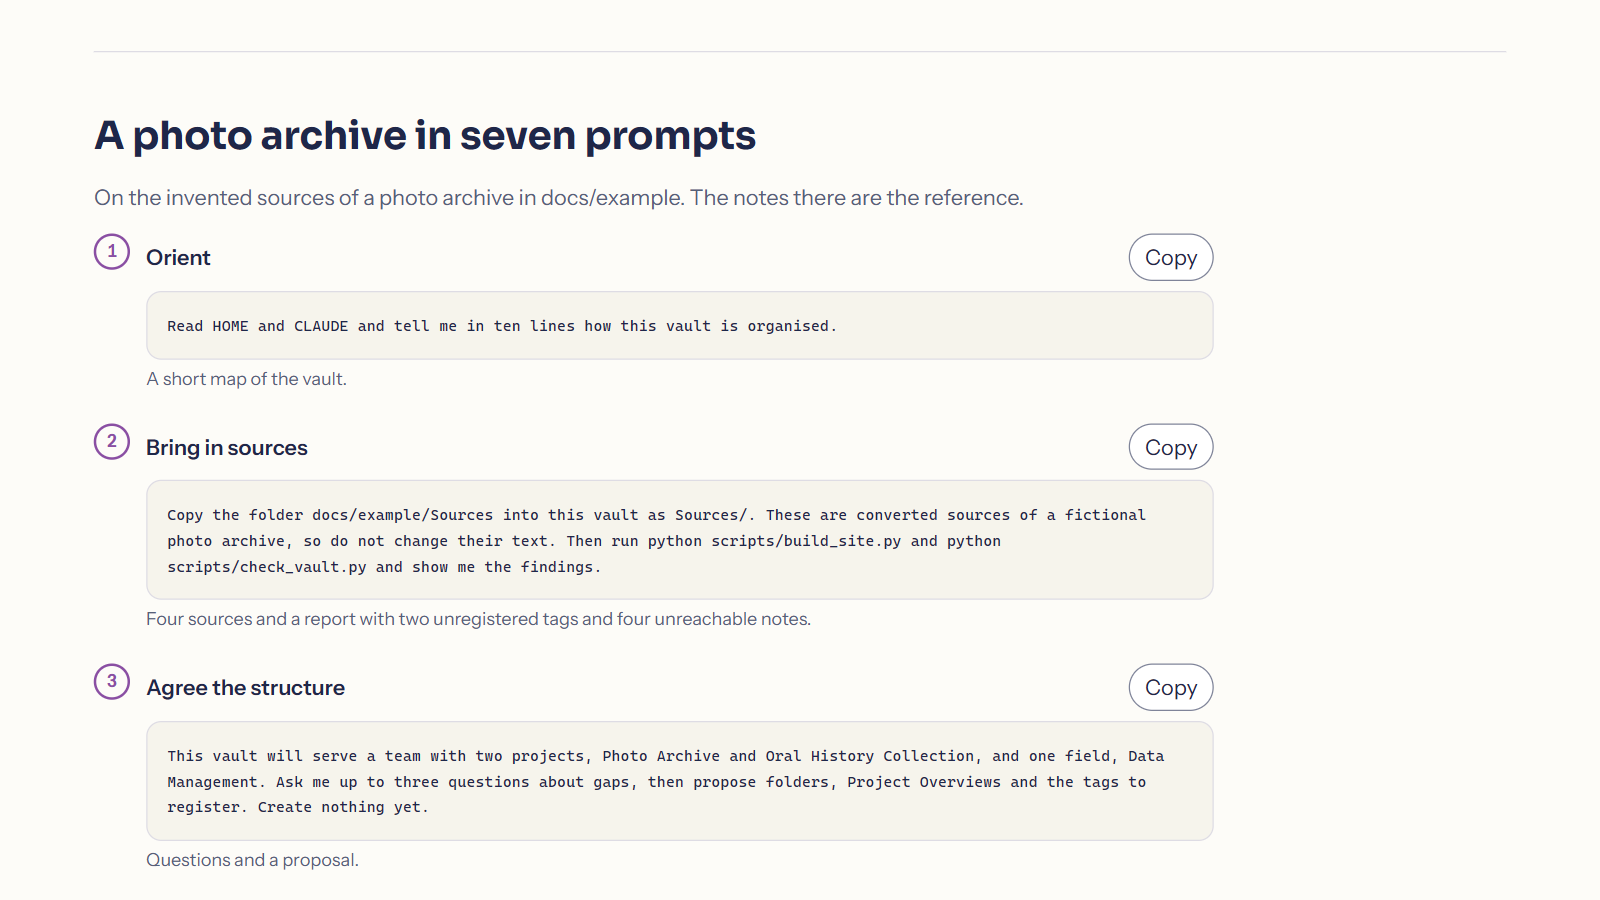
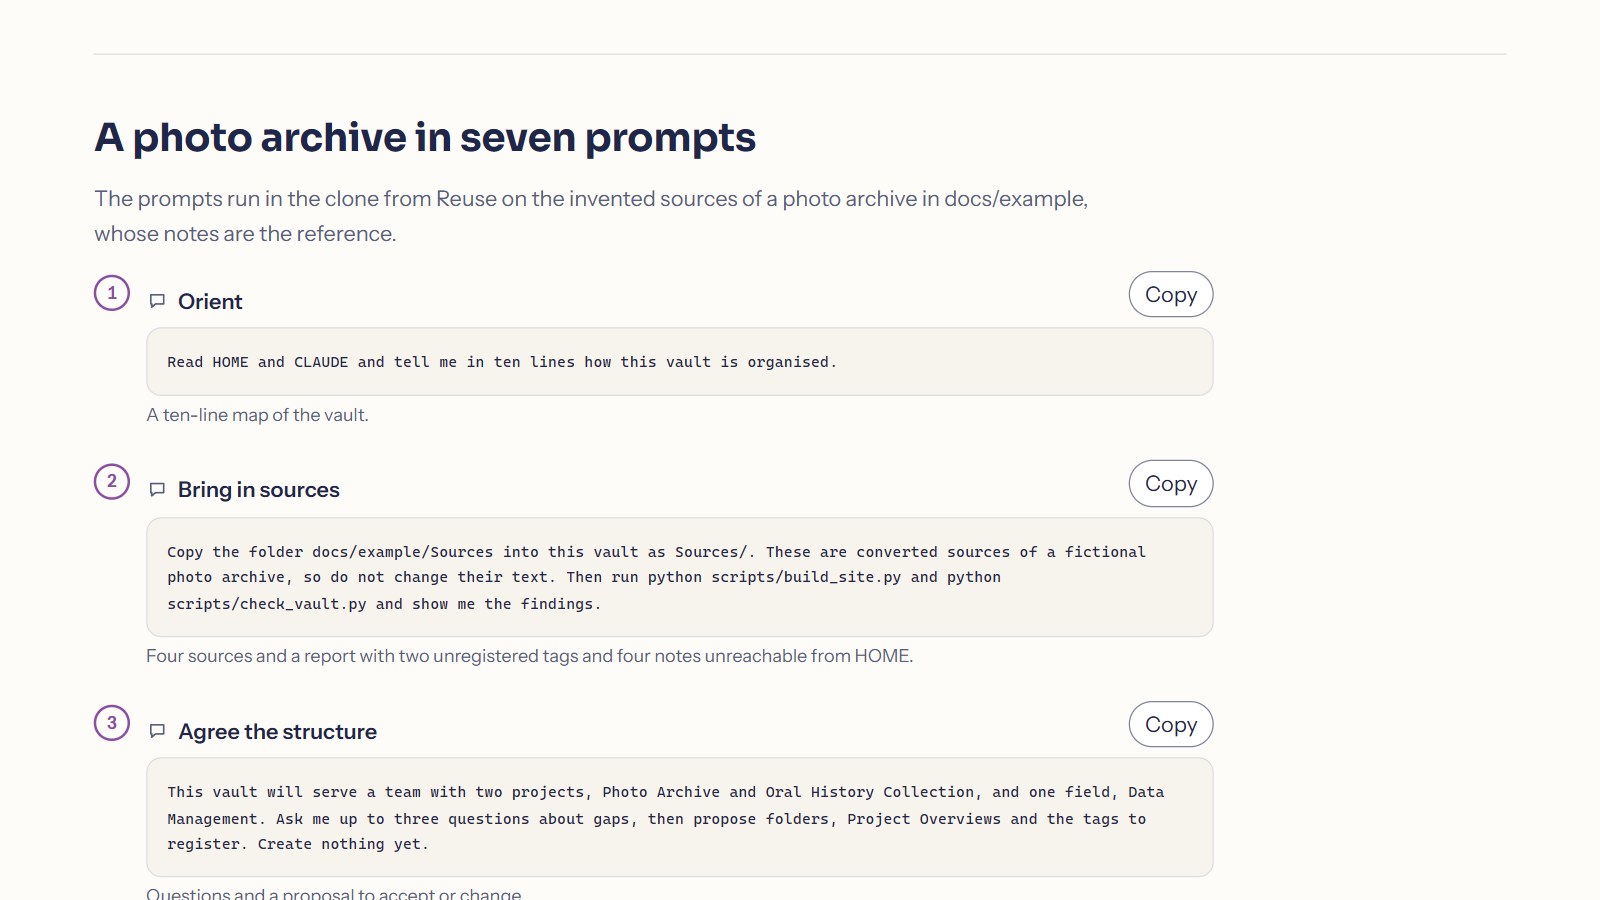
Regenerate slide screenshots and record the review round and the demo run in the knowledge base

diff --git a/knowledge/design.md b/knowledge/design.md
@@ -4,25 +4,32 @@ The method page `docs/index.html` is one static page that a reader takes in with
 
 ## Parts
 
+The Promptotyping start page is the reference for layout, type and look, following the owner's decisions of 2026-11-10 in brand-assets `web/design.md`.
+
 | Part | Content |
 |---|---|
-| Title | Name and an abstract of two sentences, actions to Reuse and Example |
-| Main figure | Vault with the layers knowledge, rules and state, the agent session with read, work and write back, the project repository with `knowledge/`, and the Repo Directory link |
-| Origin | One sentence on the source vault, links to the manuscript, Promptotyping, Research Mission Control and Grounded Vault |
-| Terms | Every term of the figure in glossary form, one sentence each, with a link to `CLAUDE.md` |
-| Reuse | Requirements sentence and four numbered steps with copyable commands |
+| Title | Name and an abstract of two sentences, without a button row |
+| Main figure | `docs/images/second-brain-figure.svg`, directly under the abstract, without heading or caption |
+| Prose | Three short paragraphs that define the terms of the figure in sentences, with links inside the sentences, and name origin, manuscript and related methods |
+| Reuse | Requirements sentence, a separate block of take-away controls (template as ZIP, skills, conventions, CLAUDE.md), then four numbered steps with copyable commands |
 | Example | Seven prompts on the synthetic photo archive in `docs/example`, each visible and copyable with one line on what it yields |
 | Limits, licence and citation | Three lines and one copyable citation |
 
-Each part has one heading, at most two sentences of prose and then the figure, a list or copyable blocks. What the README carries better, such as removing components or the governance techniques, is linked.
+The header carries brand, Reuse, Example and Specification, the language link, the GitHub icon and the theme toggle. The page opens light whatever the system setting, because `index.html` sets `data-theme="light"`, and the toggle switches to the shared dark values and stores the choice.
 
 ## Main figure
 
-The figure rests on [Convention Knowledge Documents](../Vault%20Operations/Conventions/Convention%20Knowledge%20Documents.md), the Repo Directory and the skill `vault-orient`. One CSS grid holds vault, session and repository, so the reading arrows end at step 1 and the writing arrows start at step 3. A session in a project repository reads the vault without writing to it, and a finding for the vault returns as a handover that a vault session enters once accepted. On narrow screens the three blocks stack and the step texts carry the direction.
+The figure is a hand-drawn SVG of 1600 by 760 units with Sora and Instrument Sans embedded as data URIs, so it keeps its type inside `<img>`, in a paper and on a slide. `docs/images/second-brain-figure.png` is its export at double resolution through headless Edge. It stands on a light plate in both schemes. On phones it keeps a legible width and scrolls sideways inside its frame.
+
+The vault, the agent session and the project repository take three balanced columns. Knowledge, rules and state fill the vault without empty space, and the repository mirrors knowledge and rules and adds code and data. The colours follow the mark and the roles the Research Mission Control infographic already assigned: blue for reading and writing files, purple for work, decisions and acceptance, which also marks state as the place of the operator's open questions, green for knowledge and orange for rules in both vault and repository. Every colour carries a text label and an icon. Green and orange come close for protanopia, and purple and blue for both red-green deficiencies; the labels, icons and the different shapes (bars, boxes, arrows) carry the distinction. Orange reaches 2.3:1 on paper and serves only as a supplementary bar.
+
+The content rests on [Convention Knowledge Documents](../Vault%20Operations/Conventions/Convention%20Knowledge%20Documents.md), the Repo Directory and the skill `vault-orient`. A session in a project repository reads the vault without writing to it and hands a finding over, which a vault session enters once accepted.
 
 ## Example
 
-The demo runs in a clone of the template on the invented sources in `docs/example/Sources`, and the finished notes in `docs/example` are its reference solution. Its prompts follow the arc of the operator's build sequence of 2026-11-04 on synthetic material: orient, bring in sources, agree the structure, build it, write notes, decide with reasons, reuse later. Step 2 was run on a clean clone on 2026-11-10. Copying the sources and running the check reported the tags `source` and `data-management` as unregistered and the four sources as unreachable from HOME, which steps 3 and 4 resolve. The agent steps themselves were not run. A partial copy of rules into an empty folder was also tried and left many dead links, which is why the demo starts from the clone.
+The demo runs in a clone of the template on the invented sources in `docs/example/Sources`, and the finished notes in `docs/example` are its reference. Its prompts follow the arc of the operator's build sequence of 2026-11-04 on synthetic material: orient, bring in sources, agree the structure, build it, write notes, decide with reasons, accept and reuse.
+
+On 2026-11-10 the seven prompts were run on a fresh clone in a temporary folder outside the repository, with the session itself acting as agent. Step 2 reported eight hard findings, the tags `source` and `data-management` unregistered in each source, and the four sources unreachable from HOME. Step 4 produced the overview page, two Project Overviews, their ACTIVE-WORK entries and the two tags, the check ended with `hard: 0` and `measured: 0`, and the commit passed the hook. Step 5 produced Archival Master, Access Copy and File Format, and the check listed each with fewer than three sources as a measured finding. Step 6 yielded a TIFF proposal whose claim on long-term readability the vault does not support, which the prompt now asks the agent to mark. Step 7 filed the decision and showed that its conditions cover still images, so the audio question needs its own decision. Three prompts were improved on this run: step 4 asks for reachability instead of linking every source from HOME, step 6 asks to mark unsupported grounds, and step 7 first accepts and files the decision, which the earlier sequence never did. The conversational steps 1, 3 and 6 depend on the agent's answer and were judged by their result only.
 
 The example domain is a team's research data work. A photo archive project decides on the format of its archival masters, and an oral history project later checks whether the decision transfers to audio. Its literature notes carry bibliographic entries only.
 
@@ -38,7 +45,7 @@ Acceptance tasks are to explain the TIFF grounds, identify JPEG as a regenerable
 
 ## Visual system
 
-The page uses the shared DHCraft web foundation, copied unchanged to `docs/assets/dhcraft/` with its licence file (tokens, building blocks, copy script, watercolour mark, fonts). Its design document and specimen page are not copied, because the site serves only what the page loads. Header, footer, buttons, code blocks with copy buttons and the skip link are the shared building blocks, laid out as on the Promptotyping start page: brand left, language and a GitHub icon right, and a footer of publisher, licence and source. `docs/site.css` maps the short role names used by the page and the explorer pages onto the `--dh-*` roles and adds the three layer colours and three line icons for the layers. The page follows the system's light or dark setting. Parts are separated by a hairline, and borders are drawn only for controls, the two boxes of the figure and the code blocks.
+The page uses the shared DHCraft web foundation, copied unchanged to `docs/assets/dhcraft/` with its licence file (tokens, building blocks, copy script, watercolour mark, fonts). Its design document and specimen page are not copied, because the site serves only what the page loads. Header, footer, buttons, code blocks with copy buttons, the skip link and a small set of line icons (download, external link, terminal, prompt) follow the Promptotyping start page. `docs/site.css` maps the short role names used by the page and the explorer pages onto the `--dh-*` roles. Parts are separated by a hairline, and borders are drawn only for controls, the take-away block, the figure plate and the code blocks.
 
 ## Terms
 
@@ -58,6 +65,8 @@ The page uses the shared DHCraft web foundation, copied unchanged to `docs/asset
 The site serves the template files and the synthetic example only. `scripts/build_site.py` excludes `knowledge/`, and `tests/test_site_privacy.py` fails when served files contain a `knowledge/` path, a local home path, the names of the owner's private working repositories or an email address in the example data. Statements about tools, costs and data handling follow the providers' pages linked in `docs/content.js`, read on 2026-11-04.
 
 ## Evidence
+
+On 2026-11-10, in the third round, full-page captures through headless Edge covered 1280 and 360 pixels, light, a dark system setting (the page stayed light), dark through the toggle, German, and JavaScript switched off. None showed horizontal document overflow, the figure loaded in all states, and without JavaScript the English page is complete while copy buttons, language link and toggle are absent. Static page text outside code blocks is about 565 English words. Actual 200 percent zoom, a screen reader and copying to the clipboard were not exercised.
 
 On 2026-11-10, after the second round, the page was inspected at 1280 by 800 and 360 by 740 CSS pixels, light and dark, English and German, and with JavaScript switched off, through full-page captures and the built-in browser. No width showed horizontal document overflow. Without JavaScript the English page is complete, the copy buttons and the language link are absent. Actual 200 percent zoom, a screen reader and copying to the clipboard were not exercised. The static page text outside code blocks fell from 1094 to about 590 English words between the first and second round.
 
@@ -89,3 +98,4 @@ A fresh model reviewer then read the built hero in three reader roles and agains
 - 2026-11-10: following the source owner's terminology decision of that day, the page calls the LLM-driven program an agent (KI-Agent) instead of an assistant. Three statements were narrowed to what the template supports. Git keeps the committed states, parallel checking agents leave the decision on their findings to the reader, and the footer names passing checks and synthetic trials instead of general readiness. After an independent fresh-context review, step 5 has the agent copy the template's rules, checks and skills, give converted sources the required frontmatter and set up Git, because later steps and the reference depend on them. The tool line names Python for Docling as well.
 - 2026-11-10: on the operator's commission for compact, reusable method pages in one corporate design, the page was rebuilt around the reader's first decision. New sections show the three layers, the connection of vault and project repositories, the template contents, the start routes, the limits and the citation. The growing build graph and its module `docs/graph.js`, the folded reference, the night grounds and the local font copies were removed, and the shared DHCraft foundation replaced the page's own token layer. The example, the seven agent steps and the explorer pages remain. English moved into the HTML so that the page reads without JavaScript.
 - 2026-11-10, second round: on the owner's feedback that the page was still too text-heavy and too structured, it became one static page in the seven-part structure of the DHCraft method sites. The playable example with its stepper, focus graph, note card and reading panel (`docs/hero.js`, `docs/panel.js`, `docs/episode.json`, `scripts/build_graph.py` and its test) was removed, and its arc moved into a prompt demo on the synthetic sources. The template contents section and the section navigation were dropped, because the figure and the terms carry the layers and the README carries the file lists. The decision view and the note browser remain as one link.
+- 2026-11-10, third round: after the owner's review the Promptotyping start page became the reference. The page opens light with a dark toggle, the main figure is a standalone SVG directly under the abstract, the terms became running prose, take-away files stand in their own block, and the button row beside the abstract is gone. The colours of the mark were assigned as recorded under Main figure. `docs/data.json` and `scripts/build_site.py` stay although no page reads the data any more, because the commit check depends on them; whether they go is the owner's decision.

diff --git a/knowledge/specification.md b/knowledge/specification.md
@@ -13,7 +13,7 @@ The template supports bringing together, organizing and connecting knowledge hel
 | Optional personal profile | Neutral persona template and `persona-init` | Derive an inspectable profile through source reading and dialogue, with personal claims distinguished from inference |
 | Structural checks | `scripts/check_vault.py`, generator, commit hook and tests | Check decidable requirements and report measured findings for judgement |
 | Synthetic test material | `Vault Operations/Fixtures/` and skill `evals/` | Preserve registered defects and expected behaviour for bounded trials |
-| Public method page | `docs/index.html`, `docs/content.js`, `docs/site.css`, `docs/assets/dhcraft/` and `scripts/build_site.py` | One static page in the seven parts of the DHCraft method sites, in English and German, readable without JavaScript, with a prompt demo on the synthetic example domain, without serving `knowledge/` |
+| Public method page | `docs/index.html`, `docs/content.js`, `docs/site.css`, `docs/assets/dhcraft/` and `scripts/build_site.py` | One static page after the Promptotyping start page, opening light, with a standalone SVG main figure in `docs/images/`, in English and German, readable without JavaScript, with a prompt demo on the synthetic example domain, without serving `knowledge/` |
 | Knowledge explorer | `docs/explorer.html`, `docs/decision.js`, `docs/decision.css` | Follow the curated visual grounds, derivation and scope of the photo-format decision; select an object to read its original evidence in place. The generic note browser remains at `docs/notes.html` |
 | Research procedure | [Evaluation](evaluation.md) and [episode template](episode-template.md) | Preserve the sources, interventions and outcomes of an observed episode, with missing stages explicit |
 

diff --git a/knowledge/journal.md b/knowledge/journal.md
@@ -1,5 +1,9 @@
 # Journal
 
+## 2026-11-10 Method page after the owner's review
+
+The owner chose the Promptotyping start page as the reference and recorded the decisions in brand-assets `web/design.md`. The page now opens light with a dark toggle, starts with title, abstract and a standalone SVG figure of vault, agent session and project repository in the colours of the mark, explains the figure in three paragraphs of prose, sets the take-away files apart, and keeps the seven-prompt demo, which was run in full on a fresh clone and improved in three prompts. Details, colour roles and the demo run are in [design](design.md#main-figure). The figure is also exported as PNG at double resolution under `docs/images/`.
+
 ## 2026-11-10 Method page as one static page in seven parts
 
 The owner found the first rebuild still too text-heavy and too structured and asked for one static page. The page now follows the seven parts of the DHCraft method sites, fixed in brand-assets `web/design.md` and shared with Promptotyping and Grounded Vault: title and abstract, a main figure with vault layers, agent session and project repository, origin, terms, reuse, a prompt demo on the synthetic photo archive, and limits with licence and citation. The playable example with stepper, focus graph, note card and reading panel, the graph builder and its test, the template contents section and the section navigation were removed. The decision view and the note browser remain as one link. The shared web files are MIT with the logo excluded, recorded in `LICENSE.md` and the copied licence file. Slide screenshots under `docs/images/` were regenerated. Details are in [design](design.md#decisions).
